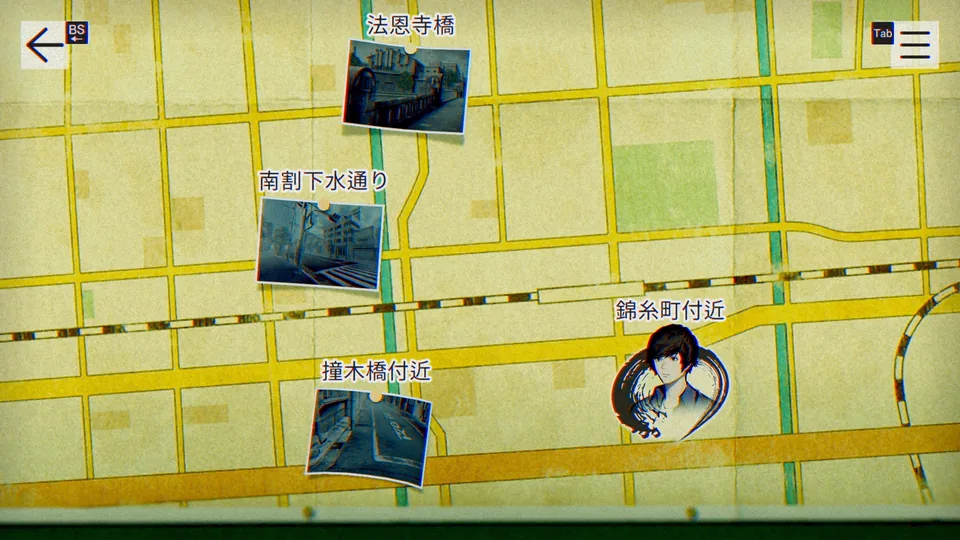
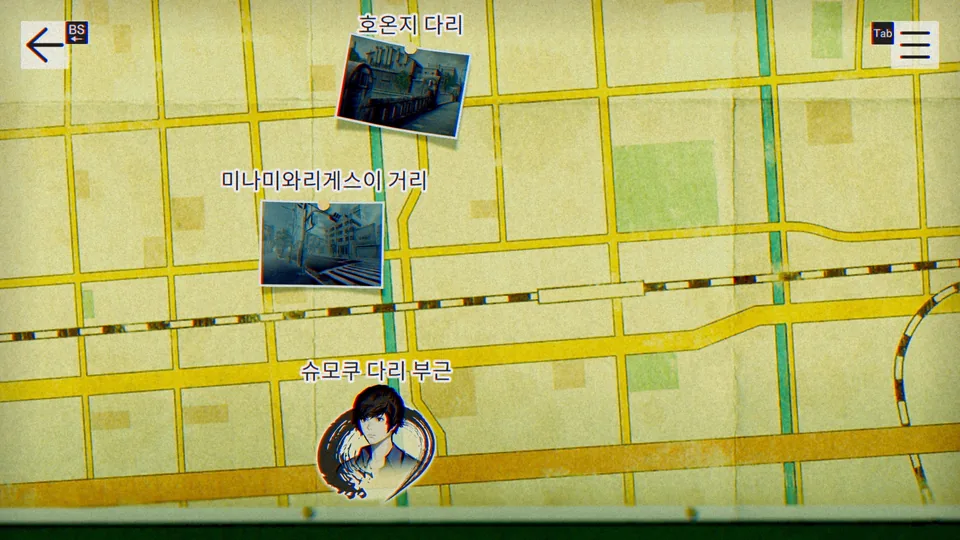
1편 지도 적용 화면을 한국어판 캡처로 교체
- 일본어 장소 이름이 보이던 지도 캡처를 한국어 장소 이름이 표시된 화면으로 바꿈
- 지도 이미지 설명을 새 화면에 맞게 수정

Changed region(s): [[0.2188, 0.0, 0.5, 0.563], [0.3125, 0.6519, 0.4688, 0.9481], [0.625, 0.5333, 0.7812, 0.8296]]

diff --git a/index.html b/index.html
@@ -561,7 +561,7 @@
             <ul class="track">
               <li class="slide" role="group" aria-roledescription="슬라이드" aria-label="1 / 11: 타이틀 화면"><button type="button" class="slide-btn" data-full="assets/paranormasight1/screens/title.webp" tabindex="-1"><img src="assets/paranormasight1/screens/title-960.webp" srcset="assets/paranormasight1/screens/title-960.webp 960w, assets/paranormasight1/screens/title.webp 1920w" sizes="(max-width: 900px) calc(100vw - 32px), 600px" width="1920" height="1080" loading="lazy" alt="한국어 제목 ‘혼조 7대 불가사의’와 한국어 메뉴가 표시된 타이틀 화면"></button><p class="cap">타이틀 화면</p></li>
               <li class="slide" role="group" aria-roledescription="슬라이드" aria-label="2 / 11: 설정 · 언어 설정"><button type="button" class="slide-btn" data-full="assets/paranormasight1/screens/settings.webp" tabindex="-1"><img src="assets/paranormasight1/screens/settings-960.webp" srcset="assets/paranormasight1/screens/settings-960.webp 960w, assets/paranormasight1/screens/settings.webp 1920w" sizes="(max-width: 900px) calc(100vw - 32px), 600px" width="1920" height="1080" loading="lazy" alt="한국어로 옮긴 설정 화면. 언어 설정에 한국어가 선택되어 있다"></button><p class="cap">설정 · 언어 설정</p></li>
-              <li class="slide" role="group" aria-roledescription="슬라이드" aria-label="3 / 11: 혼조 지도"><button type="button" class="slide-btn" data-full="assets/paranormasight1/screens/map.webp" tabindex="-1"><img src="assets/paranormasight1/screens/map-960.webp" srcset="assets/paranormasight1/screens/map-960.webp 960w, assets/paranormasight1/screens/map.webp 1920w" sizes="(max-width: 900px) calc(100vw - 32px), 600px" width="1920" height="1080" loading="lazy" alt="혼조 일대 지도에 장소 사진과 이름표, 오키이에 쇼고의 현재 위치가 표시된 화면"></button><p class="cap">혼조 지도</p></li>
+              <li class="slide" role="group" aria-roledescription="슬라이드" aria-label="3 / 11: 혼조 지도"><button type="button" class="slide-btn" data-full="assets/paranormasight1/screens/map.webp" tabindex="-1"><img src="assets/paranormasight1/screens/map-960.webp" srcset="assets/paranormasight1/screens/map-960.webp 960w, assets/paranormasight1/screens/map.webp 1920w" sizes="(max-width: 900px) calc(100vw - 32px), 600px" width="1920" height="1080" loading="lazy" alt="호온지 다리·미나미와리게스이 거리·슈모쿠 다리 부근 등 한국어 장소 이름이 표시된 혼조 지도"></button><p class="cap">혼조 지도</p></li>
               <li class="slide" role="group" aria-roledescription="슬라이드" aria-label="4 / 11: 인물 목록"><button type="button" class="slide-btn" data-full="assets/paranormasight1/screens/characters.webp" tabindex="-1"><img src="assets/paranormasight1/screens/characters-960.webp" srcset="assets/paranormasight1/screens/characters-960.webp 960w, assets/paranormasight1/screens/characters.webp 1920w" sizes="(max-width: 900px) calc(100vw - 32px), 600px" width="1920" height="1080" loading="lazy" alt="한국어 인물 목록 화면에서 오키이에 쇼고의 소개를 연 모습"></button><p class="cap">인물 목록</p></li>
               <li class="slide" role="group" aria-roledescription="슬라이드" aria-label="5 / 11: 스토리 차트"><button type="button" class="slide-btn" data-full="assets/paranormasight1/screens/story-chart.webp" tabindex="-1"><img src="assets/paranormasight1/screens/story-chart-960.webp" srcset="assets/paranormasight1/screens/story-chart-960.webp 960w, assets/paranormasight1/screens/story-chart.webp 1920w" sizes="(max-width: 900px) calc(100vw - 32px), 600px" width="1920" height="1080" loading="lazy" alt="오키이에 쇼고의 한국어 스토리 차트에서 ‘킨시보리 공원 Part2’ 장면을 고른 모습"></button><p class="cap">스토리 차트</p></li>
               <li class="slide" role="group" aria-roledescription="슬라이드" aria-label="6 / 11: 인물 등장 · 나미가키 유타로"><button type="button" class="slide-btn" data-full="assets/paranormasight1/screens/intro-namigaki.webp" tabindex="-1"><img src="assets/paranormasight1/screens/intro-namigaki-960.webp" srcset="assets/paranormasight1/screens/intro-namigaki-960.webp 960w, assets/paranormasight1/screens/intro-namigaki.webp 1920w" sizes="(max-width: 900px) calc(100vw - 32px), 600px" width="1920" height="1080" loading="lazy" alt="‘저주인청년’ 소개 문구와 함께 나미가키 유타로의 이름이 한국어로 크게 표시된 장면"></button><p class="cap">인물 등장 · 나미가키 유타로</p></li>

diff --git a/README.md b/README.md
@@ -100,7 +100,7 @@ PARANORMASIGHT: The Seven Mysteries of Honjo · パラノマサイト FILE23 本
 
 | **설정 · 언어 설정** | **혼조 지도** |
 |---|---|
-| <a href="assets/paranormasight1/screens/settings.webp"><img src="assets/paranormasight1/screens/settings-960.webp" alt="한국어로 옮긴 설정 화면. 언어 설정에 한국어가 선택되어 있다"></a> | <a href="assets/paranormasight1/screens/map.webp"><img src="assets/paranormasight1/screens/map-960.webp" alt="혼조 일대 지도에 장소 사진과 이름표, 오키이에 쇼고의 현재 위치가 표시된 화면"></a> |
+| <a href="assets/paranormasight1/screens/settings.webp"><img src="assets/paranormasight1/screens/settings-960.webp" alt="한국어로 옮긴 설정 화면. 언어 설정에 한국어가 선택되어 있다"></a> | <a href="assets/paranormasight1/screens/map.webp"><img src="assets/paranormasight1/screens/map-960.webp" alt="호온지 다리·미나미와리게스이 거리·슈모쿠 다리 부근 등 한국어 장소 이름이 표시된 혼조 지도"></a> |
 | **인물 목록** | **스토리 차트** |
 | <a href="assets/paranormasight1/screens/characters.webp"><img src="assets/paranormasight1/screens/characters-960.webp" alt="한국어 인물 목록 화면에서 오키이에 쇼고의 소개를 연 모습"></a> | <a href="assets/paranormasight1/screens/story-chart.webp"><img src="assets/paranormasight1/screens/story-chart-960.webp" alt="오키이에 쇼고의 한국어 스토리 차트에서 ‘킨시보리 공원 Part2’ 장면을 고른 모습"></a> |
 | **인물 등장 · 나미가키 유타로** | **대화 장면** |
